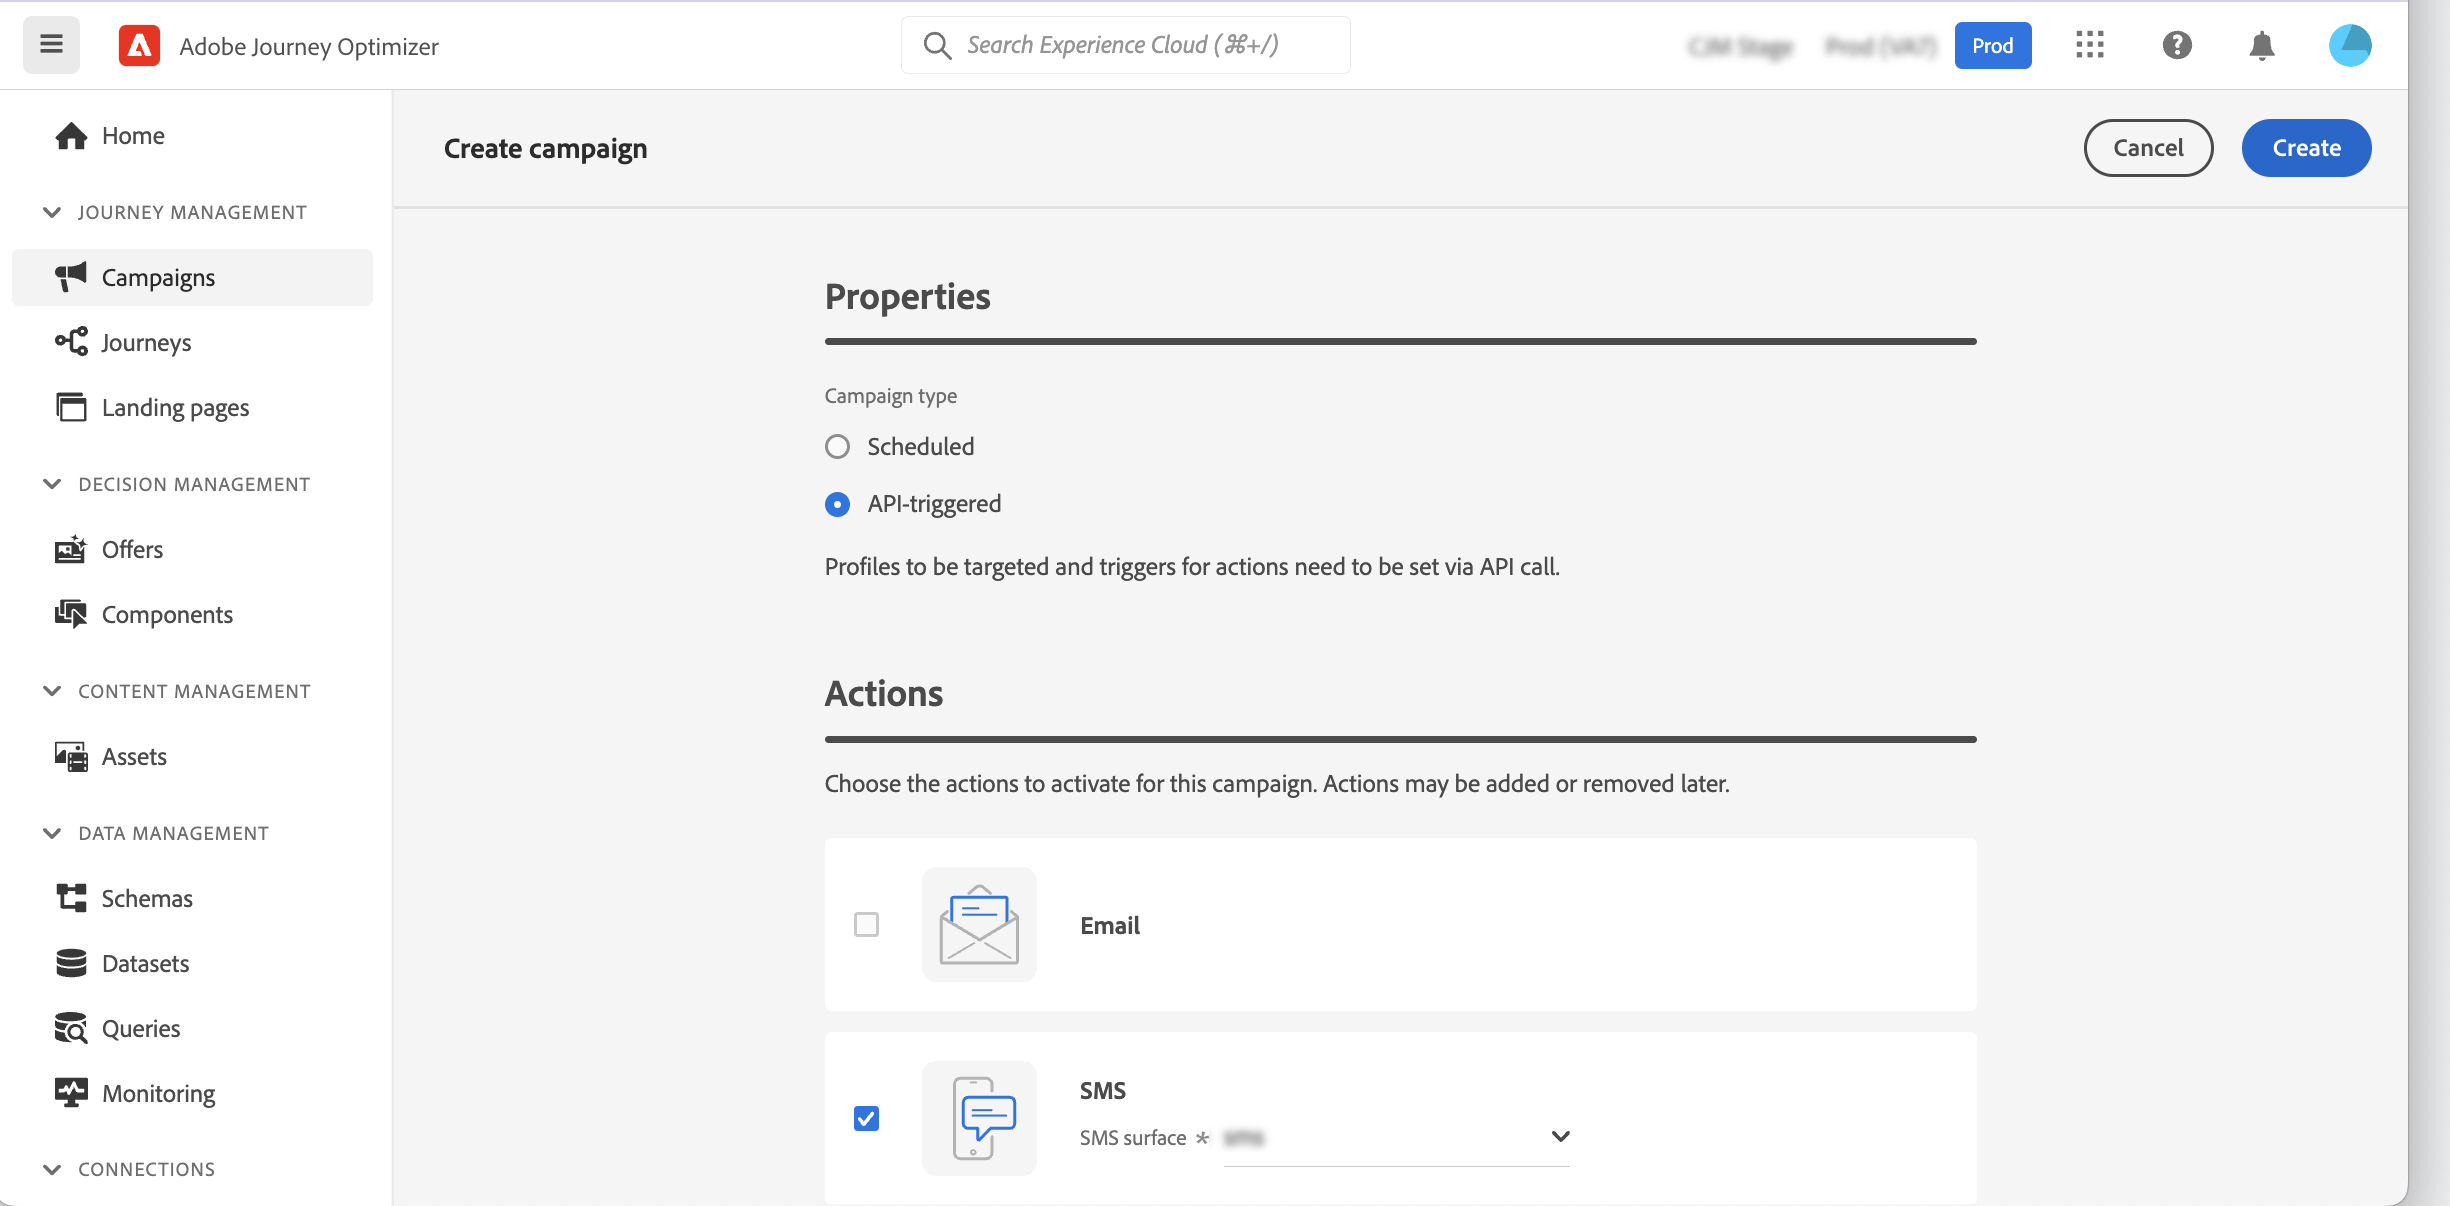
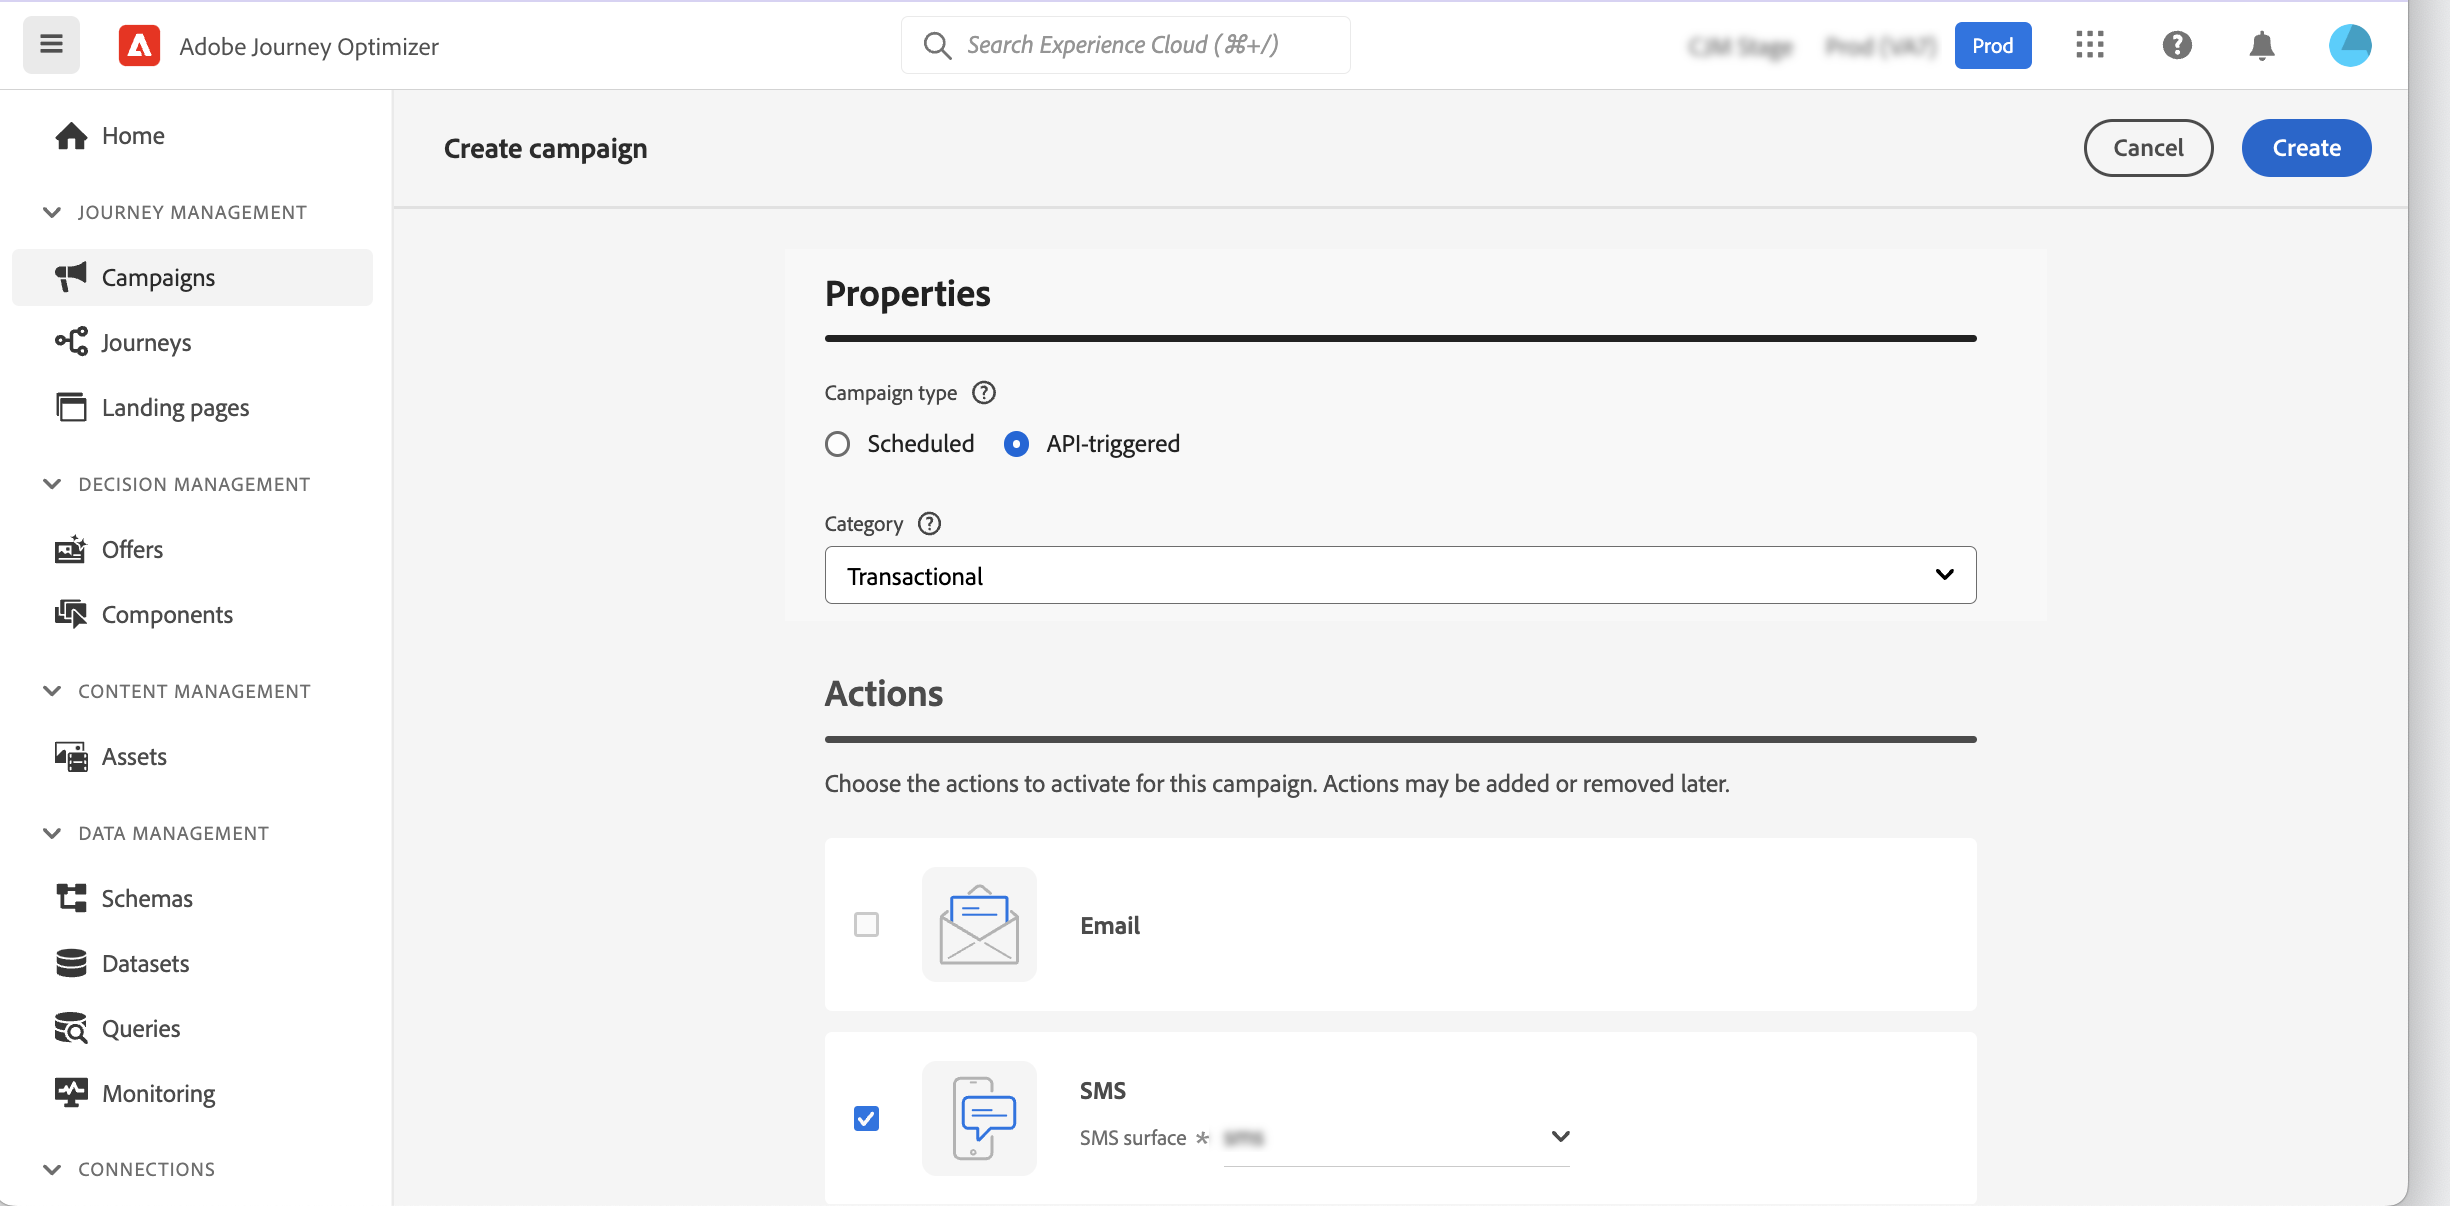
23.6 (#1301)
* small email style updates

* Update release-notes.md

* Docac 82200 api triggered updates (#1300)

* api-triggered choose type

* update gs

* update

* update

* screenshot update

* update

* api-triggered review

* add link to code samples

Changed region(s): [[0.3412, 0.2148, 0.8065, 0.4909]]

diff --git a/help/using/campaigns/api-triggered-campaigns.md b/help/using/campaigns/api-triggered-campaigns.md
@@ -13,7 +13,7 @@ exl-id: 0ef03d33-da11-43fa-8e10-8e4b80c90acb
 
 ## About API-triggered campaigns {#about}
 
-With [!DNL Journey Optimizer], you can create campaigns and then invoke them from an external system based on user trigger using the [Interactive Message Execution REST API](https://developer.adobe.com/journey-optimizer-apis/references/messaging/#tag/execution). This allows you to cover various operational and transactional messaging needs like password resets, OTP token, among others. 
+With [!DNL Journey Optimizer], you can create campaigns and then invoke them from an external system based on user trigger using the [Interactive Message Execution REST API](https://developer.adobe.com/journey-optimizer-apis/references/messaging/#tag/execution). This allows you to cover various marketing and transactional messaging needs like password resets, OTP token, among others. 
 
 To do this, you first need to create an API-triggered campaign in Journey Optimizer, and then launch its execution through an API call.
 
@@ -23,15 +23,19 @@ Available channels for API-triggered campaigns are Email, SMS and Push messages.
 
 ### Configure and activate the campaign {#create-activate}
 
-The process to create API-triggered campaigns remains the same as scheduled campaigns, except for the audience selection which is performed in the API payload. Detailed information on how to create a campaign is available in [this section](create-campaign.md).
-
-To create an API-triggered campaign, follow these steps:
+To create an API-triggered campaign, follow the steps below. Detailed information on how to create a campaign is available in [this section](create-campaign.md).
 
 1. Create a new campaign with the **[!UICONTROL API-triggered]** type.
 
-1. Choose the channel and the channel surface to use to send your message, then click **[!UICONTROL Create]**.
+1. Choose the **[!UICONTROL Marketing]** or **[!UICONTROL Transactional]** category depending on the type of communication that you want to send.
+
+1. Choose one of the supported channels and associated channel surface to use to send your message, then click **[!UICONTROL Create]**.
 
     ![](assets/api-triggered-type.png)
+
+    >[!NOTE]
+    >
+    >As of now, Rapid delivery is not not supported for push notification API-triggered campaigns.
     
 1. Specify a title and a description for the campaign, then click **[!UICONTROL Edit content]** to configure the message to send.
 
@@ -41,9 +45,11 @@ To create an API-triggered campaign, follow these steps:
     >
     >Using a large number or heavy contextual data in your content may impact performances.
 
-1. In the **[!UICONTROL Audience]** section, specify the namespace to use to identify the individuals from the segment.
+1. In the **[!UICONTROL Audience]** section, specify the namespace to use to identify the individuals.
 
-    The **[!UICONTROL Create new profiles]** option allows you to automatically create profiles that do not exist in the database. [Learn more on profile creation at campaign execution](#profile-creation)
+    * If you are creating a **transactional**-type campaign, the targeted profiles need to be defined in the API call. The **[!UICONTROL Create new profiles]** option allows you to automatically create profiles that do not exist in the database. [Learn more on profile creation at campaign execution](#profile-creation)
+
+    * For **marketing**-type campaigns, click the **[!UICONTROL Audience]** button to choose the audience to target.
 
 1. Configure the campaign's start and end dates. 
 
@@ -62,6 +68,8 @@ Once your campaign has been activated, you need to retrieve the generated sample
     ![](assets/api-triggered-curl.png)
 
 1. Use this cURL request into the APIs to build your payload and trigger the campaign. For more information, refer to the [Interactive Message Execution API documentation](https://developer.adobe.com/journey-optimizer-apis/references/messaging/#tag/execution).
+
+    API call examples are also available in [this page](https://developer.adobe.com/journey-optimizer-apis/references/messaging-samples/).
 
     >[!NOTE]
     >
@@ -86,7 +94,7 @@ The `{{context.<contextualAttribute>}}` syntax is mapped to a String datatype on
 
 >[!IMPORTANT]
 >
->The contextual attributes passed into the request cannot exceed 50kb.
+>The contextual attributes passed into the request cannot exceed 50kb and are always consider of type string.
 >
 >The `context.system` syntax is restricted to Adobe internal usage only, and should not be used to pass contextual attributes.
 
@@ -100,9 +108,9 @@ When a profile does not exist in the database, Journey Optimizer allows you to a
 
 >[!IMPORTANT]
 >
->This feature is provided for **very small volume profile creation** in a large volume transactional sending use case, with bulk of profiles already existing in platform.
+>In case of transactional messages, this feature is provided for **very small volume profile creation** in a large volume transactional sending use case, with bulk of profiles already existing in platform.
 
-To activate profile creation at campaign execution, toggle the **[!UICONTROL Create new profiles]** option on in the **[!UICONTROL Audience]** section. 
+To activate profile creation at campaign execution, toggle the **[!UICONTROL Create new profiles]** option on in the **[!UICONTROL Audience]** section. If this option is disabled, unknown profiles will be rejected for any sending and the API call will fail.
 
 ![](assets/api-triggered-create-profile.png)
 

diff --git a/help/using/campaigns/create-campaign.md b/help/using/campaigns/create-campaign.md
@@ -26,18 +26,20 @@ To create a new campaign, access the **[!UICONTROL Campaigns]** menu, then click
 >[!CONTEXTUALHELP]
 >id="ajo_campaigns_campaign_type"
 >title="Campaign type"
->abstract="For a marketing message by specifying a sending date, the **Scheduled** type is the most appropriate. However, if you want to send transactional messages like password reset or cart abandonment, the **API-triggered** type is the best choice."
+>abstract="**Scheduled campaigns** are executed immediately or on a specified date and are meant to send send marketing type messages. **API-triggered** campaigns are executed using an API call. They are aimed at sending either marketing messages, or transactional messages, i.e. messages sent out following an action performed by an individual: password reset, cart abandonment etc."
 
 >[!CONTEXTUALHELP]
 >id="ajo_campaigns_campaign_category"
 >title="Campaign category"
->abstract="Category value is directly associated to the campaign type value. Schedule campaign type for the **Marketing** category and API-triggered type for the category **Transactional**"
+>abstract="If you are creating a scheduled campaign, the **marketing** type is automatically selected. For API-triggered campaigns, choose if you want to send a **marketing** or **transactional** message, i.e. a message sent out following an action performed by an individual: password reset, cart abandonment etc."
 
 1. In the **[!UICONTROL Properties]** section, specify how you want to execute the campaign. There are two types of campaign available:
 
-    * **[!UICONTROL Scheduled]**: execute the campaign immediately or on a specified date. Scheduled campaigns are aimed at sending **marketing** type messages.
+    * **[!UICONTROL Scheduled]**: execute the campaign immediately or on a specified date. Scheduled campaigns are aimed at sending **marketing** messages. They are configured and executed from the user interface.
 
-    * **[!UICONTROL API-triggered]**: execute the campaign using an API call. API-triggered campaigns are aimed at sending **transactional** messages, i.e. messages sent out following an action performed by an individual: password reset, cart abandonment etc. [Learn how to trigger a campaign using APIs](api-triggered-campaigns.md)
+    * **[!UICONTROL API-triggered]**: execute the campaign using an API call. API-triggered campaigns are aimed at sending either **marketing**, or **transactional** messages, i.e. messages sent out following an action performed by an individual: password reset, cart purchase etc. [Learn how to trigger a campaign using APIs](api-triggered-campaigns.md)
+
+1. If you are creating a scheduled campaign, the **marketing** type is automatically selected. For API-triggered campaigns, choose if you want to send a **marketing** or **transactional** message."
 
 1. In the **[!UICONTROL Actions]** section, choose the channel and the channel surface to use to send your message.
 

diff --git a/help/using/email/content-components.md b/help/using/email/content-components.md
@@ -54,7 +54,7 @@ To add content components to your email and adjust them to your needs, follow th
     >
     >You can add several components into a single structure component and into each column of a structure component.
 
-1. Adjust the styling attributes for each component using the **[!UICONTROL Settings]** and **[!UICONTROL Style]** tabs on the right. For example, you can change the text style, padding or margin of each component. [Learn more about alignment and padding](alignment-and-padding.md)
+1. Adjust the attributes and styling for each component using the **[!UICONTROL Settings]** and **[!UICONTROL Style]** tabs on the right. For example, you can change the text style, padding or margin of each component. [Learn more about alignment and padding](alignment-and-padding.md)
 
     ![](assets/email_designer_content_components_settings.png)
 
@@ -218,4 +218,4 @@ Learn how to add personalized offers into an email in [this section](add-offers-
 
 >[!IMPORTANT]
 >
->If changes are made to an offer decision which is being used in a journey’s message, you need to unpublish the journey and republish it.  This will ensure that the changes are incorporated into the journey's message and that the message is consistent with the latest updates.
+>If changes are made to an offer decision which is being used in a journey's message, you need to unpublish the journey and republish it.  This will ensure that the changes are incorporated into the journey's message and that the message is consistent with the latest updates.

diff --git a/help/using/campaigns/get-started-with-campaigns.md b/help/using/campaigns/get-started-with-campaigns.md
@@ -22,7 +22,7 @@ Use Journey Optimizer campaigns to deliver one-time content to a specific segmen
 You can create two types of campaigns:
 
 * **Scheduled campaigns** allow for simple ad-hoc batch communications for marketing use cases like promotional offers, engagement campaigns, announcements, legal notices, or policy updates.
-* **API Triggered Campaigns** allow for simple transactional/operational messages with REST APIs (password reset, cart abandonment, etc.), where the need may involve personalization using profile attributes and contextual data from payload.
+* **API-triggered campaigns** allow either for marketing communications to reach out to an audience at the right time, or for transactional/operational messages to an individual like a password reset, where the need may involve personalization by not just using profile attribute but also the real-time context data in the trigger which is a REST API payload. 
 
 The main steps to create a campaign are as follows:
 

diff --git a/help/using/email/get-started-email-style.md b/help/using/email/get-started-email-style.md
@@ -12,11 +12,11 @@ exl-id: 2e20ecc5-bb58-4dc8-a2bc-ec5a02c16ae8
 ---
 # Get started with email style {#get-started-email-style}
 
-Once you started creating your email content in [!DNL Journey Optimizer], you can adjust a number of styling parameters and attributes from the Email Designer settings pane.
+Once you started creating your email content in [!DNL Journey Optimizer], you can adjust a number of styling parameters and attributes from the Email Designer **[!UICONTROL Styles]** pane.
 
 You can either apply your changes to the email body, to a structure component or to a content component.
 
-![](assets/email_designer_content_components_settings.png)
+![](assets/email_designer_content_components_styles.png)
 
 Follow the links below to discover how to adjust some of the style settings in your email.
 

diff --git a/help/using/rn/release-notes.md b/help/using/rn/release-notes.md
@@ -17,14 +17,15 @@ Previous release notes are available in [this page](release-notes-2022.md). You 
 
 
 
-## June 2023 early release notes {#june-rn-2023}
-
-Information below is subject to change without prior notice until the release availability date. Updated documentation will be published at the release date, and direct links will be added in this page.
-
-**Release date**: June 21-22, 2023
+## June 2023 release notes {#june-rn-2023}
 
 <!--
-### New capabilities{#june-2023-features}-->
+Information below is subject to change without prior notice until the release availability date. Updated documentation will be published at the release date, and direct links will be added in this page.
+
+**Release date**: June 21-22, 2023-->
+
+
+<!-- ### New capabilities{#june-2023-features}-->
 
 <table>
 <thead>
